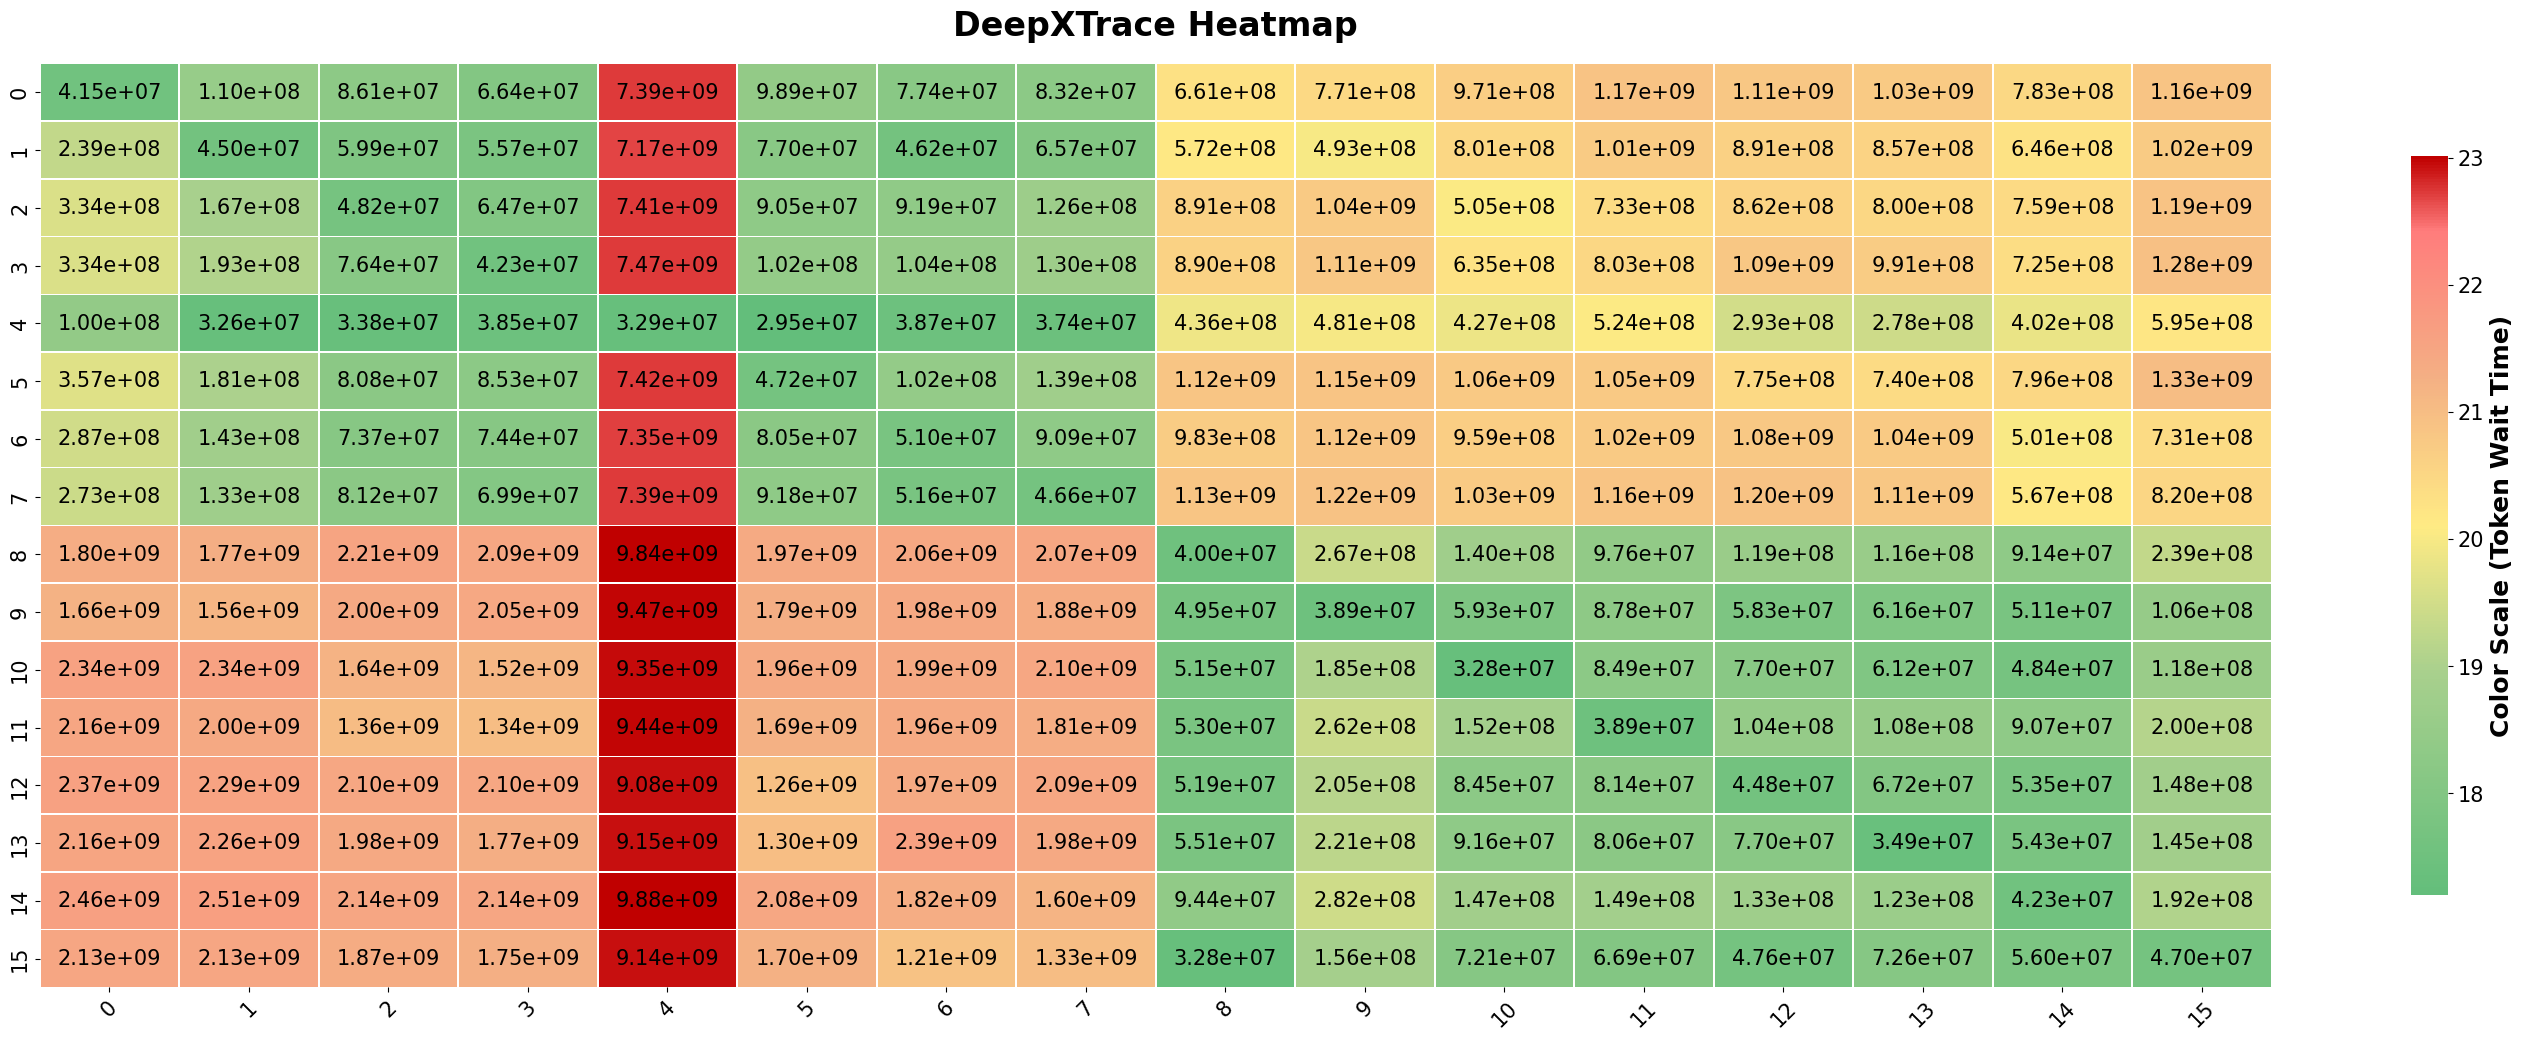
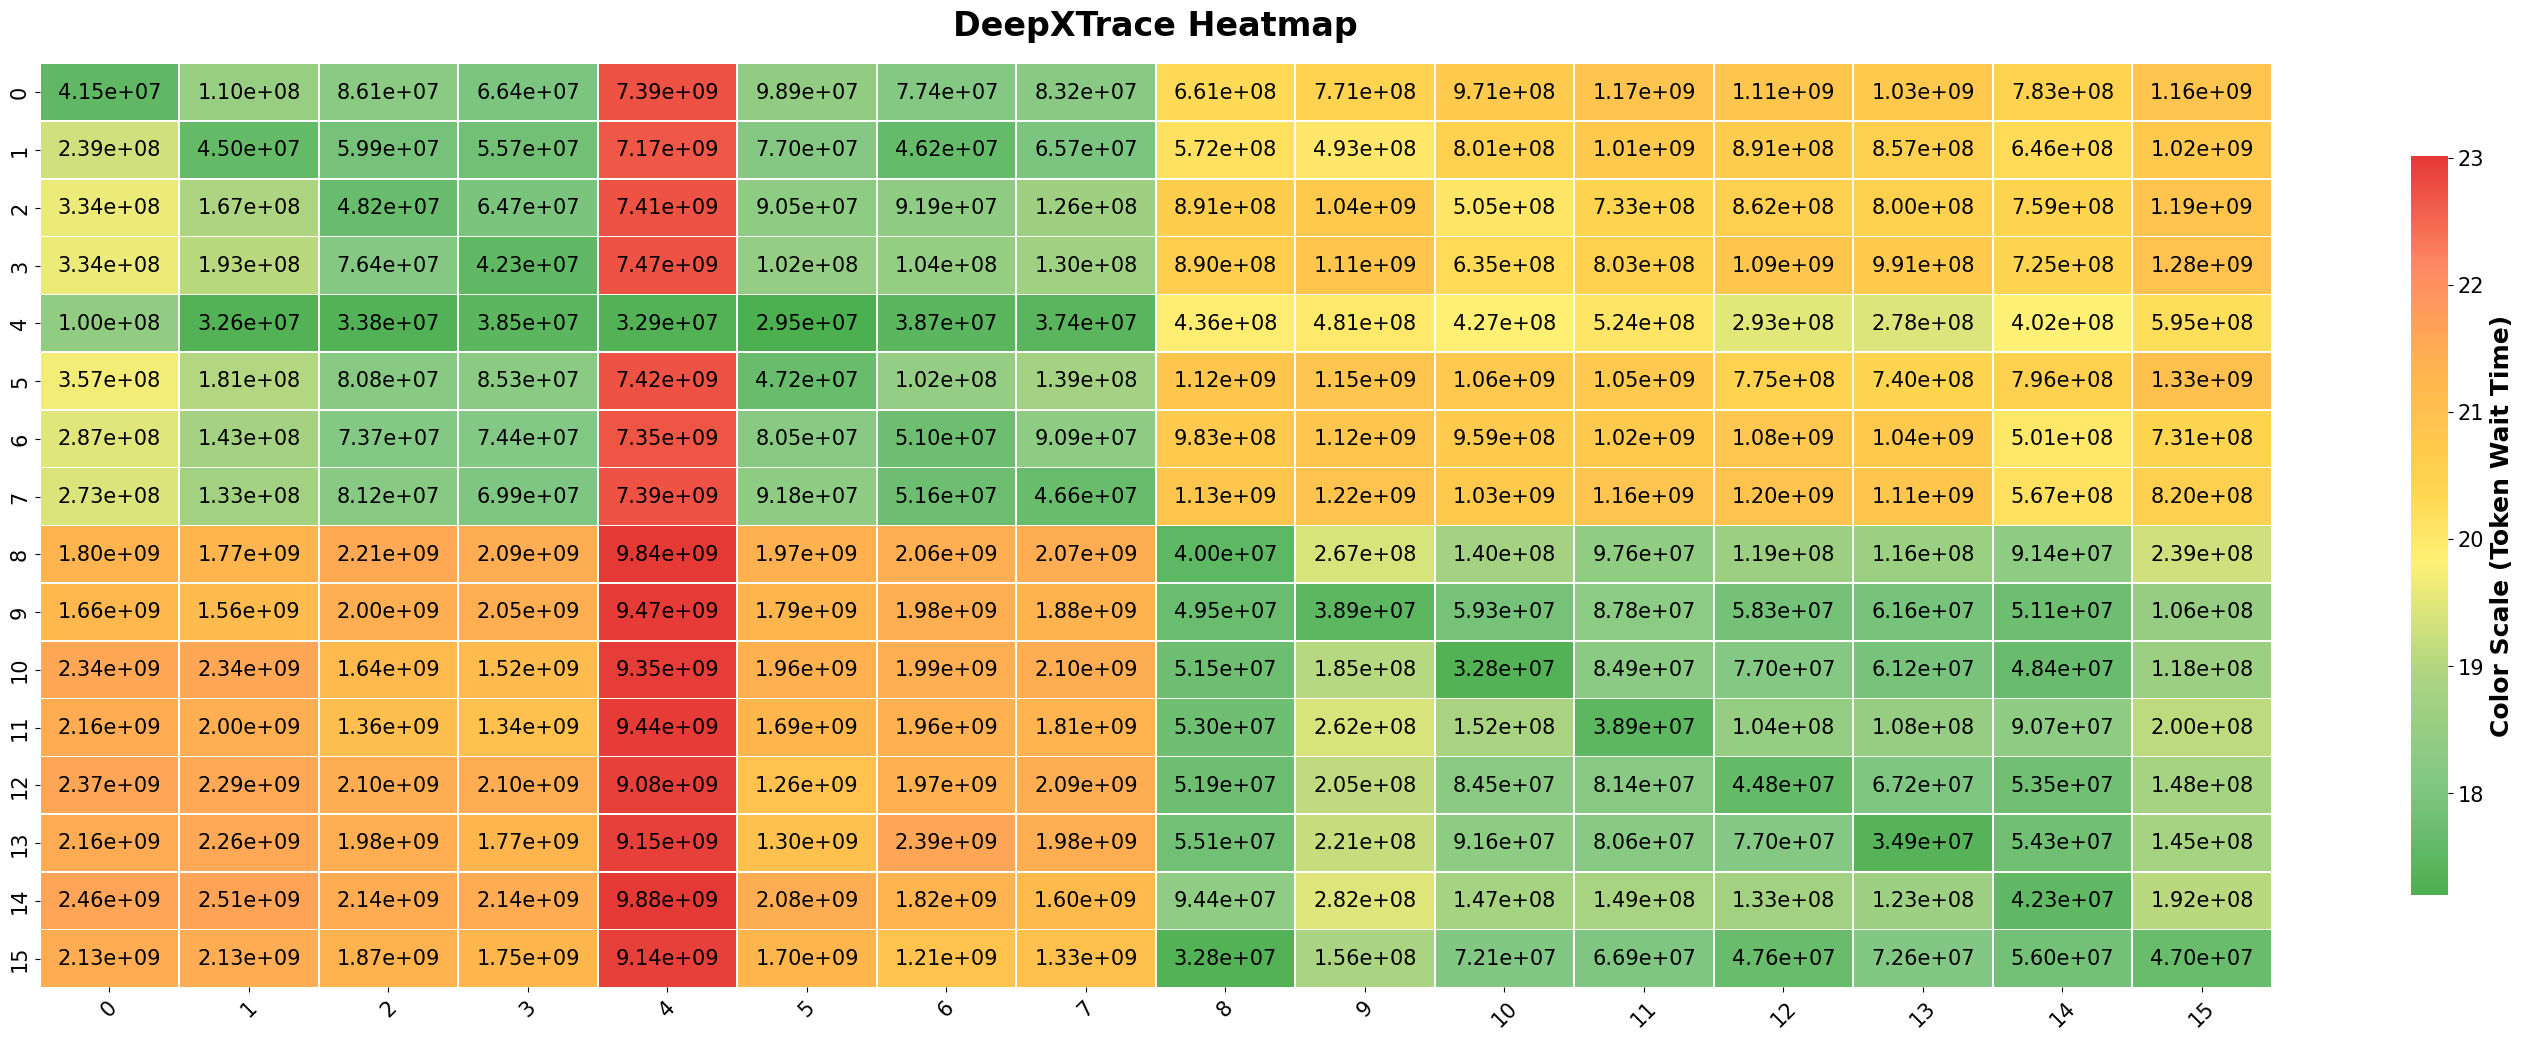
update deepxtrace heatmap (#14)

diff --git a/tools/deepxtrace_heatmap.py b/tools/deepxtrace_heatmap.py
@@ -11,12 +11,14 @@ from datetime import datetime
 def create_optimized_ryg_cmap():
     """Create an optimized Red-Yellow-Green colormap (6-color scale)"""
     colors = [
-        (0.0, "#63BE7B"),  # Green
-        (0.3, "#A8D08D"),  # Green to Yellow-Green
-        (0.5, "#FFEB84"),  # Center Yellow
-        (0.7, "#F4B084"),  # Yellow to Orange
-        (0.9, "#FF7C7C"),  # Light Red
-        (1.0, "#C00000")   # Red
+        (0.00, "#4CAF50"),   # Green
+        (0.15, "#81C784"),   # Light Green
+        (0.30, "#AED581"),   # Green-Yellow
+        (0.45, "#FFF176"),   # Light Yellow
+        (0.55, "#FFD54F"),   # Yellow
+        (0.70, "#FFB74D"),   # Yellow-Orange
+        (0.85, "#FF8A65"),   # Light Red
+        (1.00, "#E53935")    # Red
     ]
     return LinearSegmentedColormap.from_list("optimized_ryg", colors)
 
